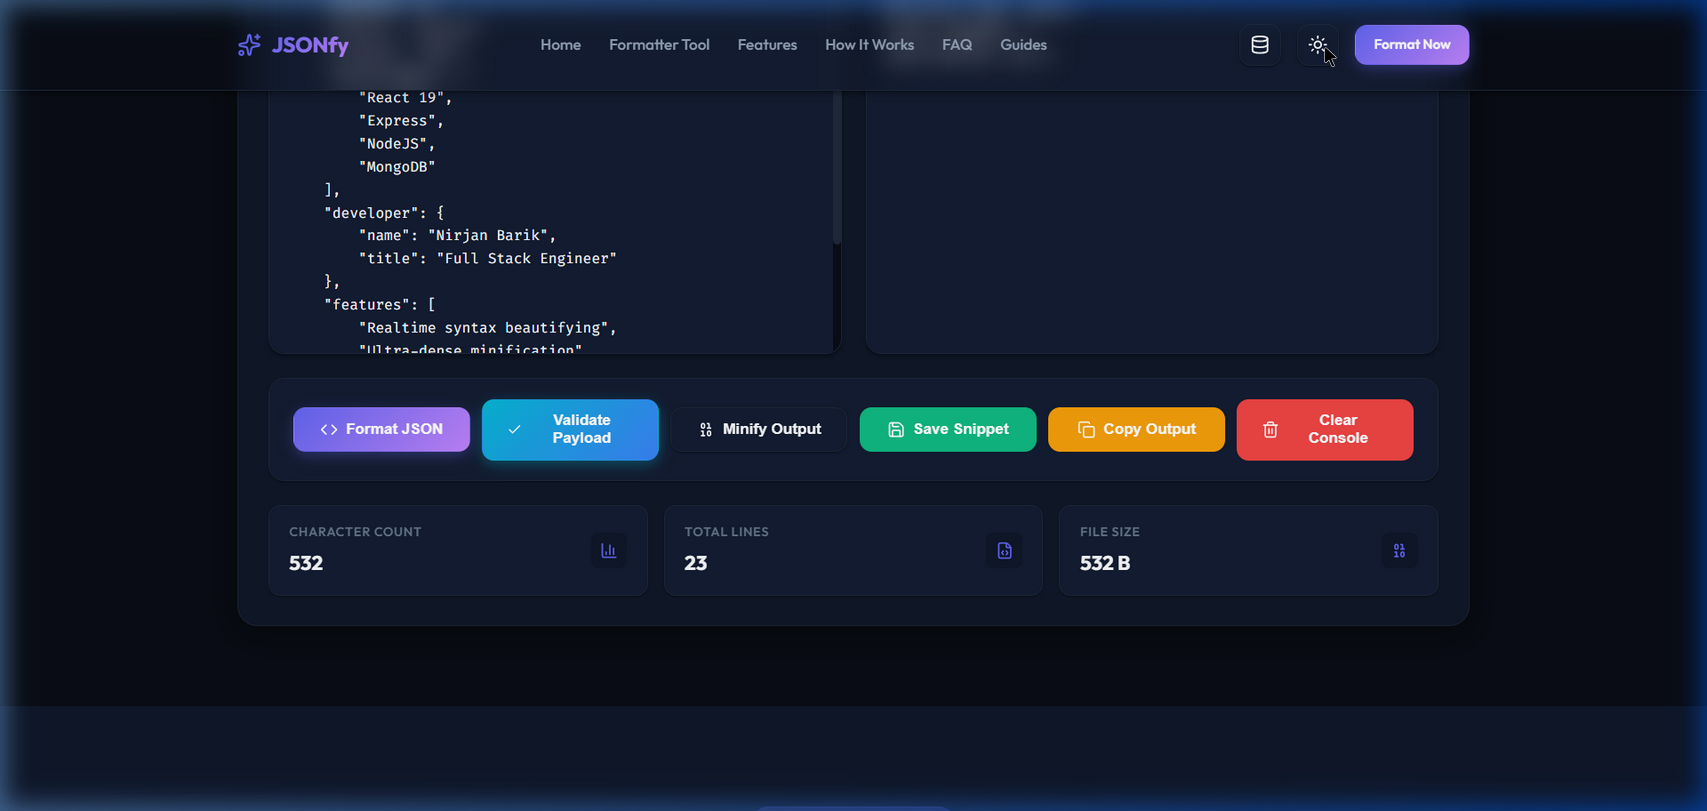
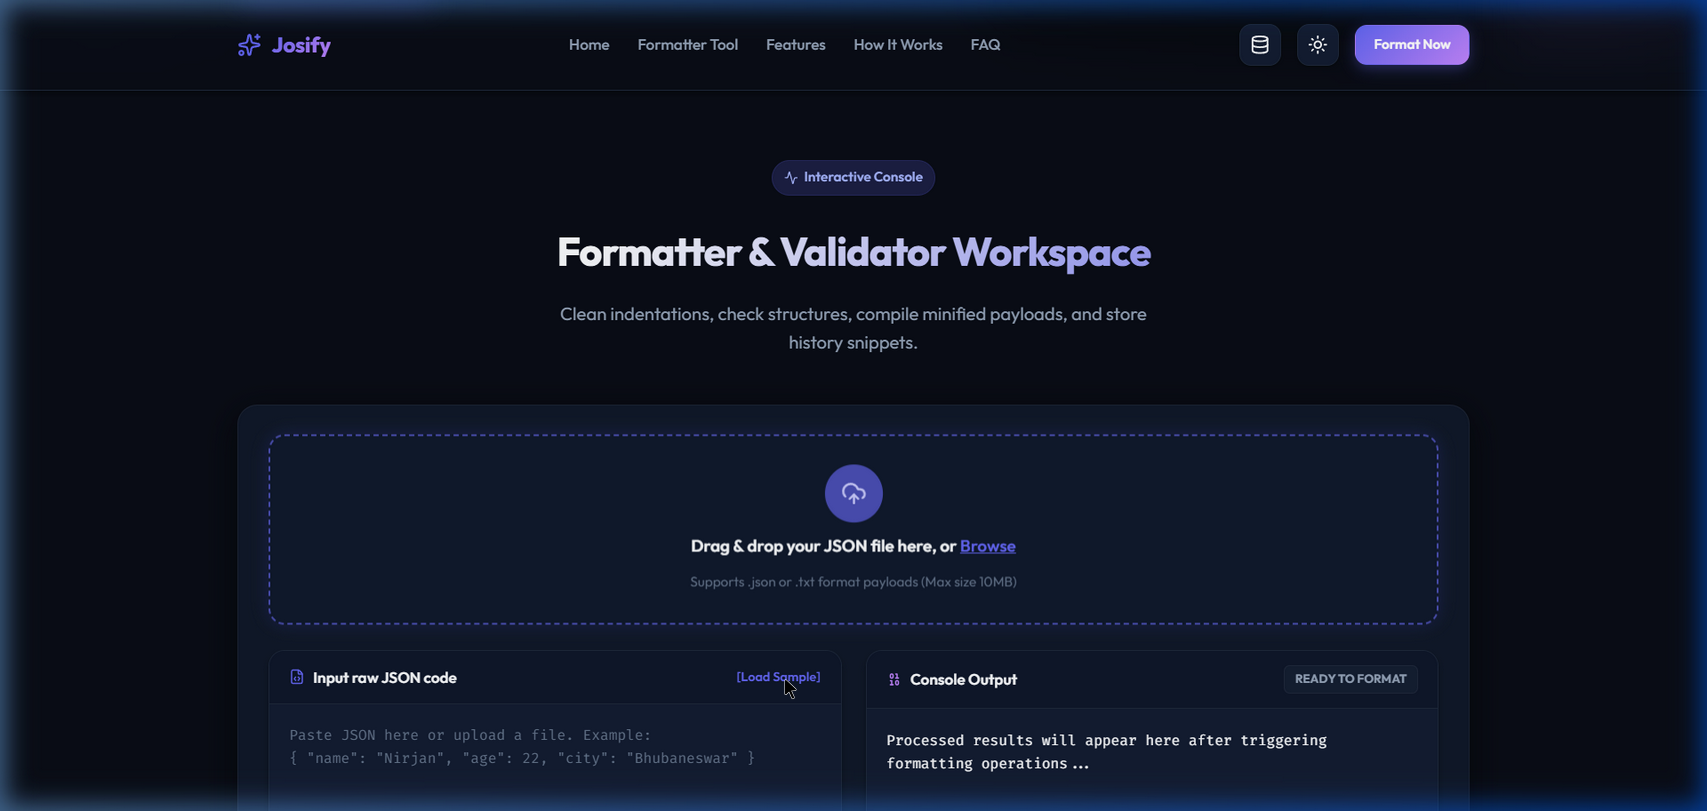
feat: initialize main application architecture and UI components for JSON formatter

diff --git a/client/src/components/Footer.jsx b/client/src/components/Footer.jsx
@@ -10,7 +10,7 @@ export default function Footer() {
                 <div className="footer-brand">
                     <a href="#" className="footer-logo">
                         <Sparkles size={24} style={{ color: 'var(--brand-primary)' }} />
-                        <span>JSONfy</span>
+                        <span>Josify</span>
                     </a>
                     <p className="footer-tagline">
                         Redesigning developer productivity. Clean, optimize, inspect, and parse your API integrations directly within a secure, responsive environment.
@@ -50,7 +50,7 @@ export default function Footer() {
             </div>
 
             <div className="container footer-bottom">
-                <p>&copy; {currentYear} JSONfy. Open Source under MIT License.</p>
+                <p>&copy; {currentYear} Josify. Open Source under MIT License.</p>
                 <p style={{ display: 'flex', alignItems: 'center', gap: '4px' }}>
                     Crafted with 
                     <Heart size={14} style={{ color: 'var(--error)', fill: 'var(--error)' }} />

diff --git a/client/src/components/Navbar.jsx b/client/src/components/Navbar.jsx
@@ -22,7 +22,7 @@ export default function Navbar({ theme, onToggleTheme, onOpenDrawer }) {
             <div className="container">
                 <a href="#" className="logo">
                     <Sparkles size={24} style={{ color: 'var(--brand-primary)' }} />
-                    <span>JSONfy</span>
+                    <span>Josify</span>
                 </a>
 
                 <ul className="nav-links">

diff --git a/client/src/App.jsx b/client/src/App.jsx
@@ -270,7 +270,7 @@ function App() {
     const loadSampleJSON = (e) => {
         e.preventDefault();
         const sample = {
-            appName: "JSONfy Premium Formatter",
+            appName: "Josify Premium Formatter",
             version: 2.0,
             status: "online",
             license: "MIT",

diff --git a/README.md b/README.md
@@ -1,8 +1,8 @@
-# ⚡ JSONfy - Premium JSON Formatter & Validator
+# ⚡ Josify - Premium JSON Formatter & Validator
 
-![JSONfy Redesigned Console](./assets/dashboard-redesign.png)
+![Josify Redesigned Console](./assets/dashboard-redesign.png)
 
-JSONfy is a premium, full-stack developer workspace built on the MERN stack. Designed with beautiful glassmorphism aesthetic guidelines, it lets you format, validate, minify, and store your API JSON payloads seamlessly in a secure and modern environment.
+Josify is a premium, full-stack developer workspace built on the MERN stack. Designed with beautiful glassmorphism aesthetic guidelines, it lets you format, validate, minify, and store your API JSON payloads seamlessly in a secure and modern environment.
 
 ---
 
